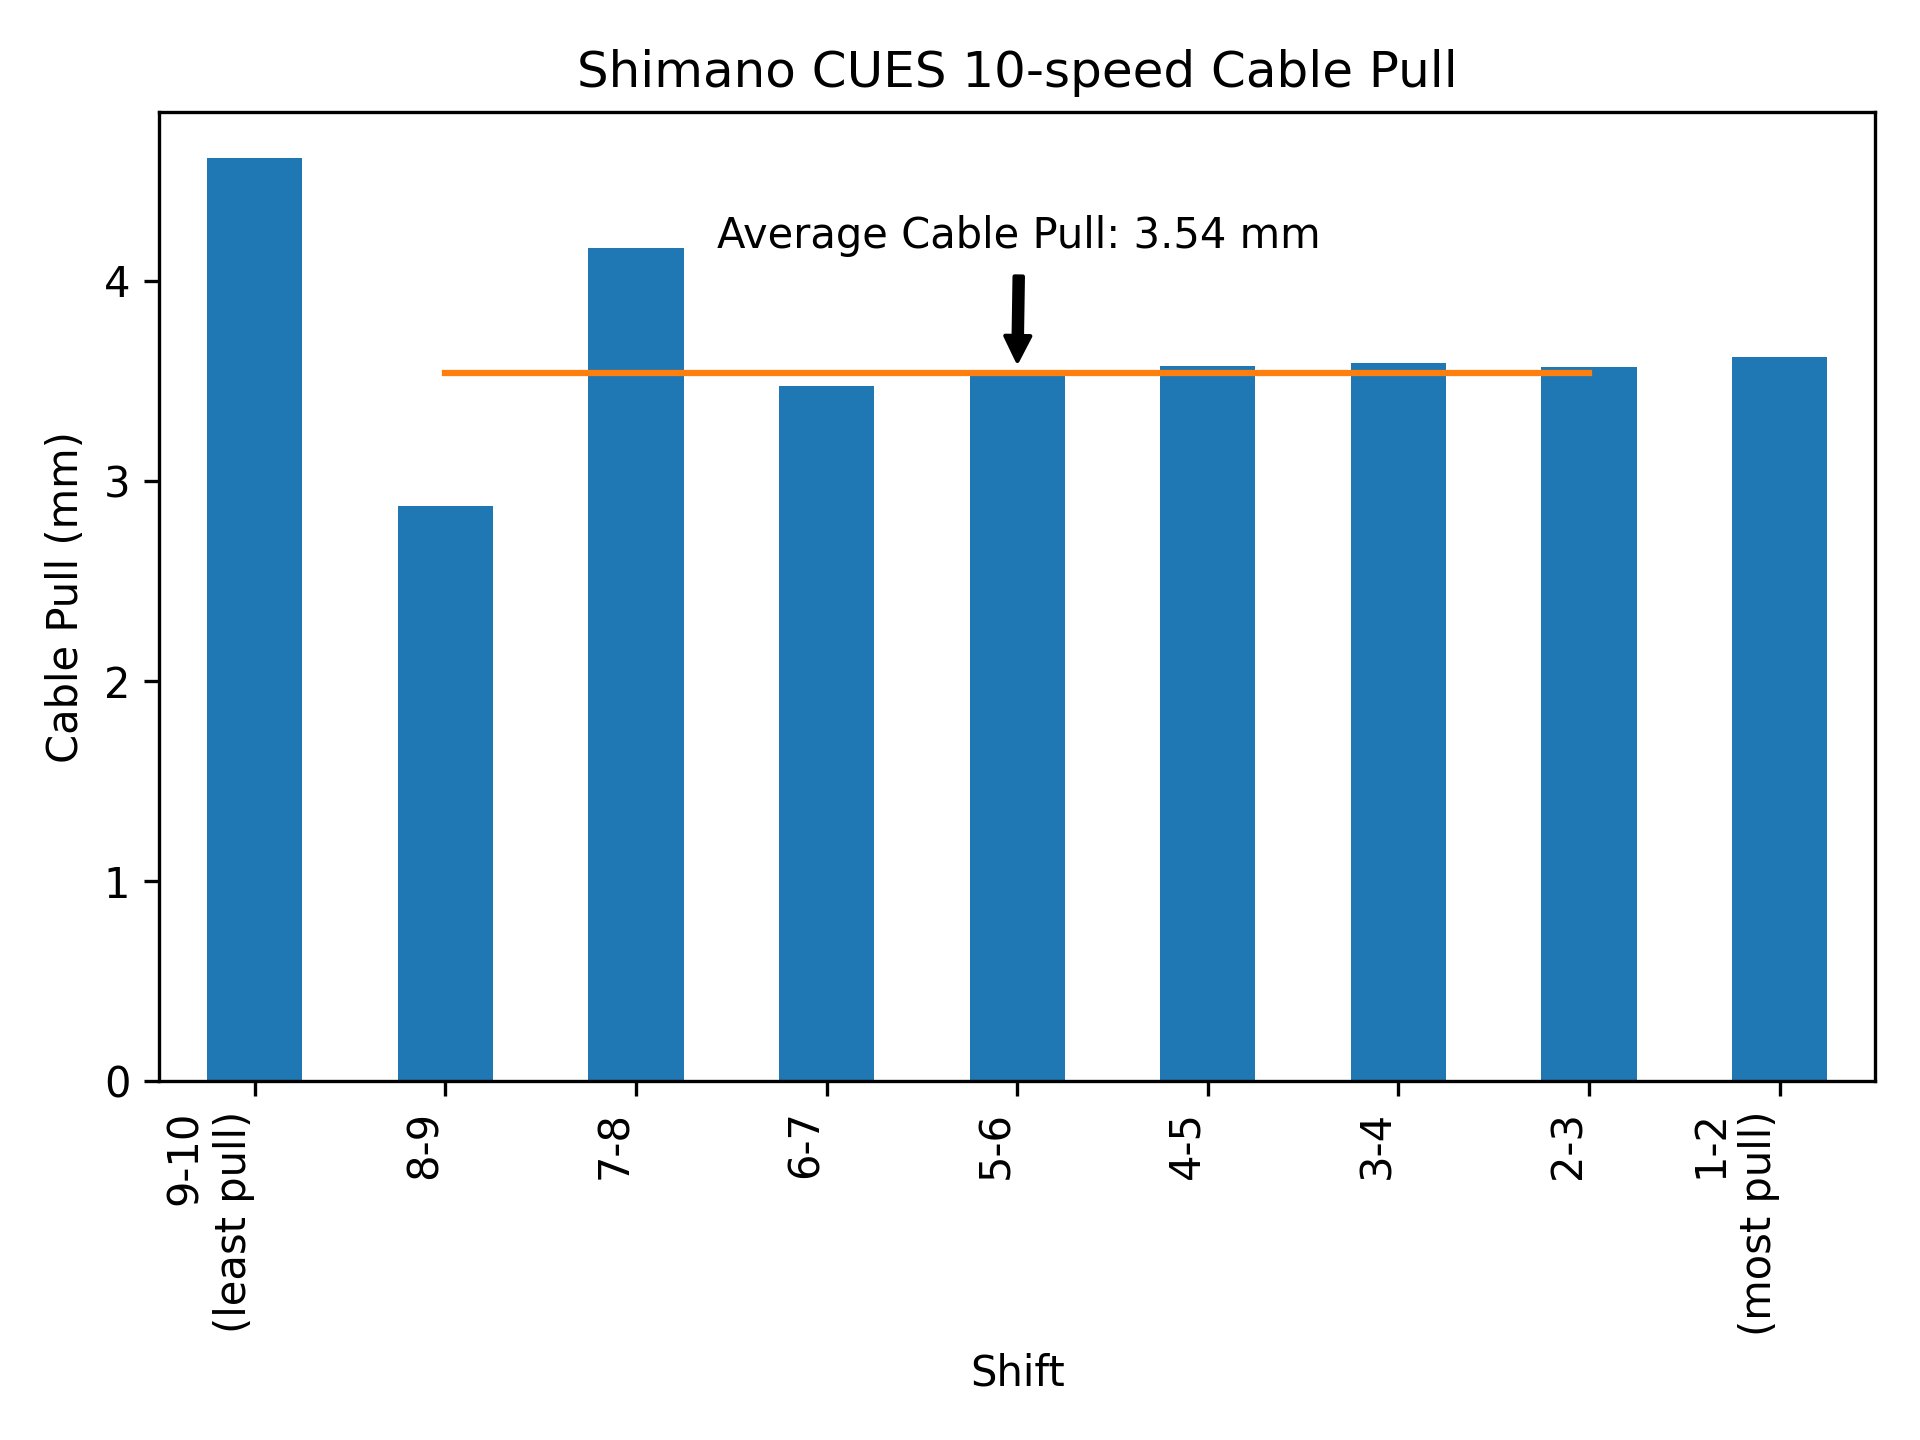
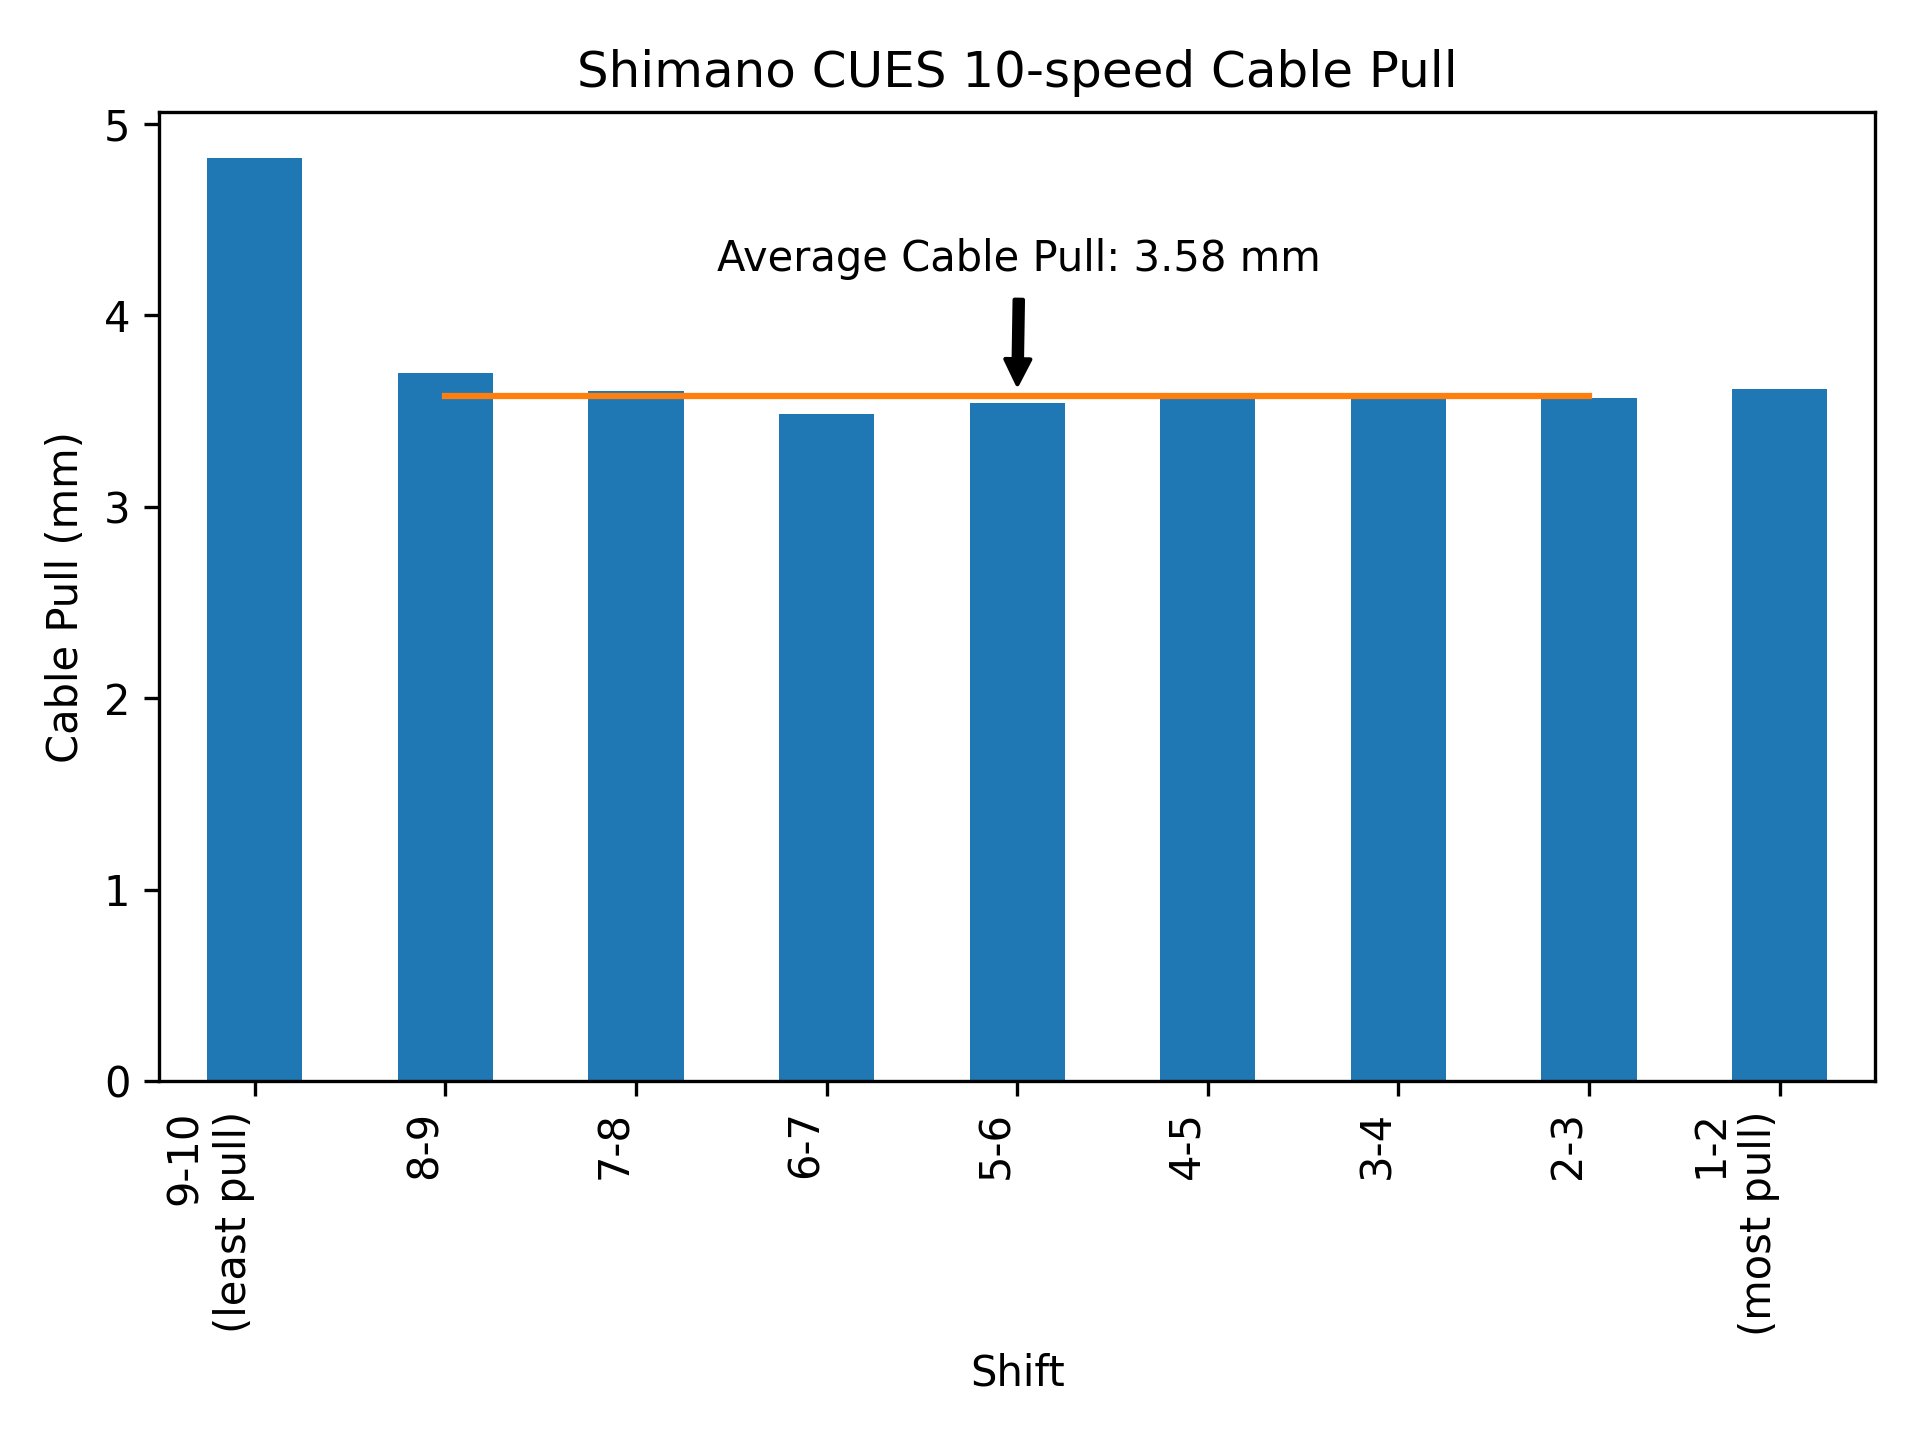
Remeasure CUES 10-speed shifter

diff --git a/shifters/Shimano CUES 10-Speed/default.htm b/shifters/Shimano CUES 10-Speed/default.htm
@@ -21,7 +21,7 @@ Shimano CUES 10-Speed
   </tr>
   <tr>
     <th>Cable Pull</th>
-    <td>3.54</td>
+    <td>3.58</td>
   </tr>
   <tr>
     <th>Raw Measurement Data</th>
